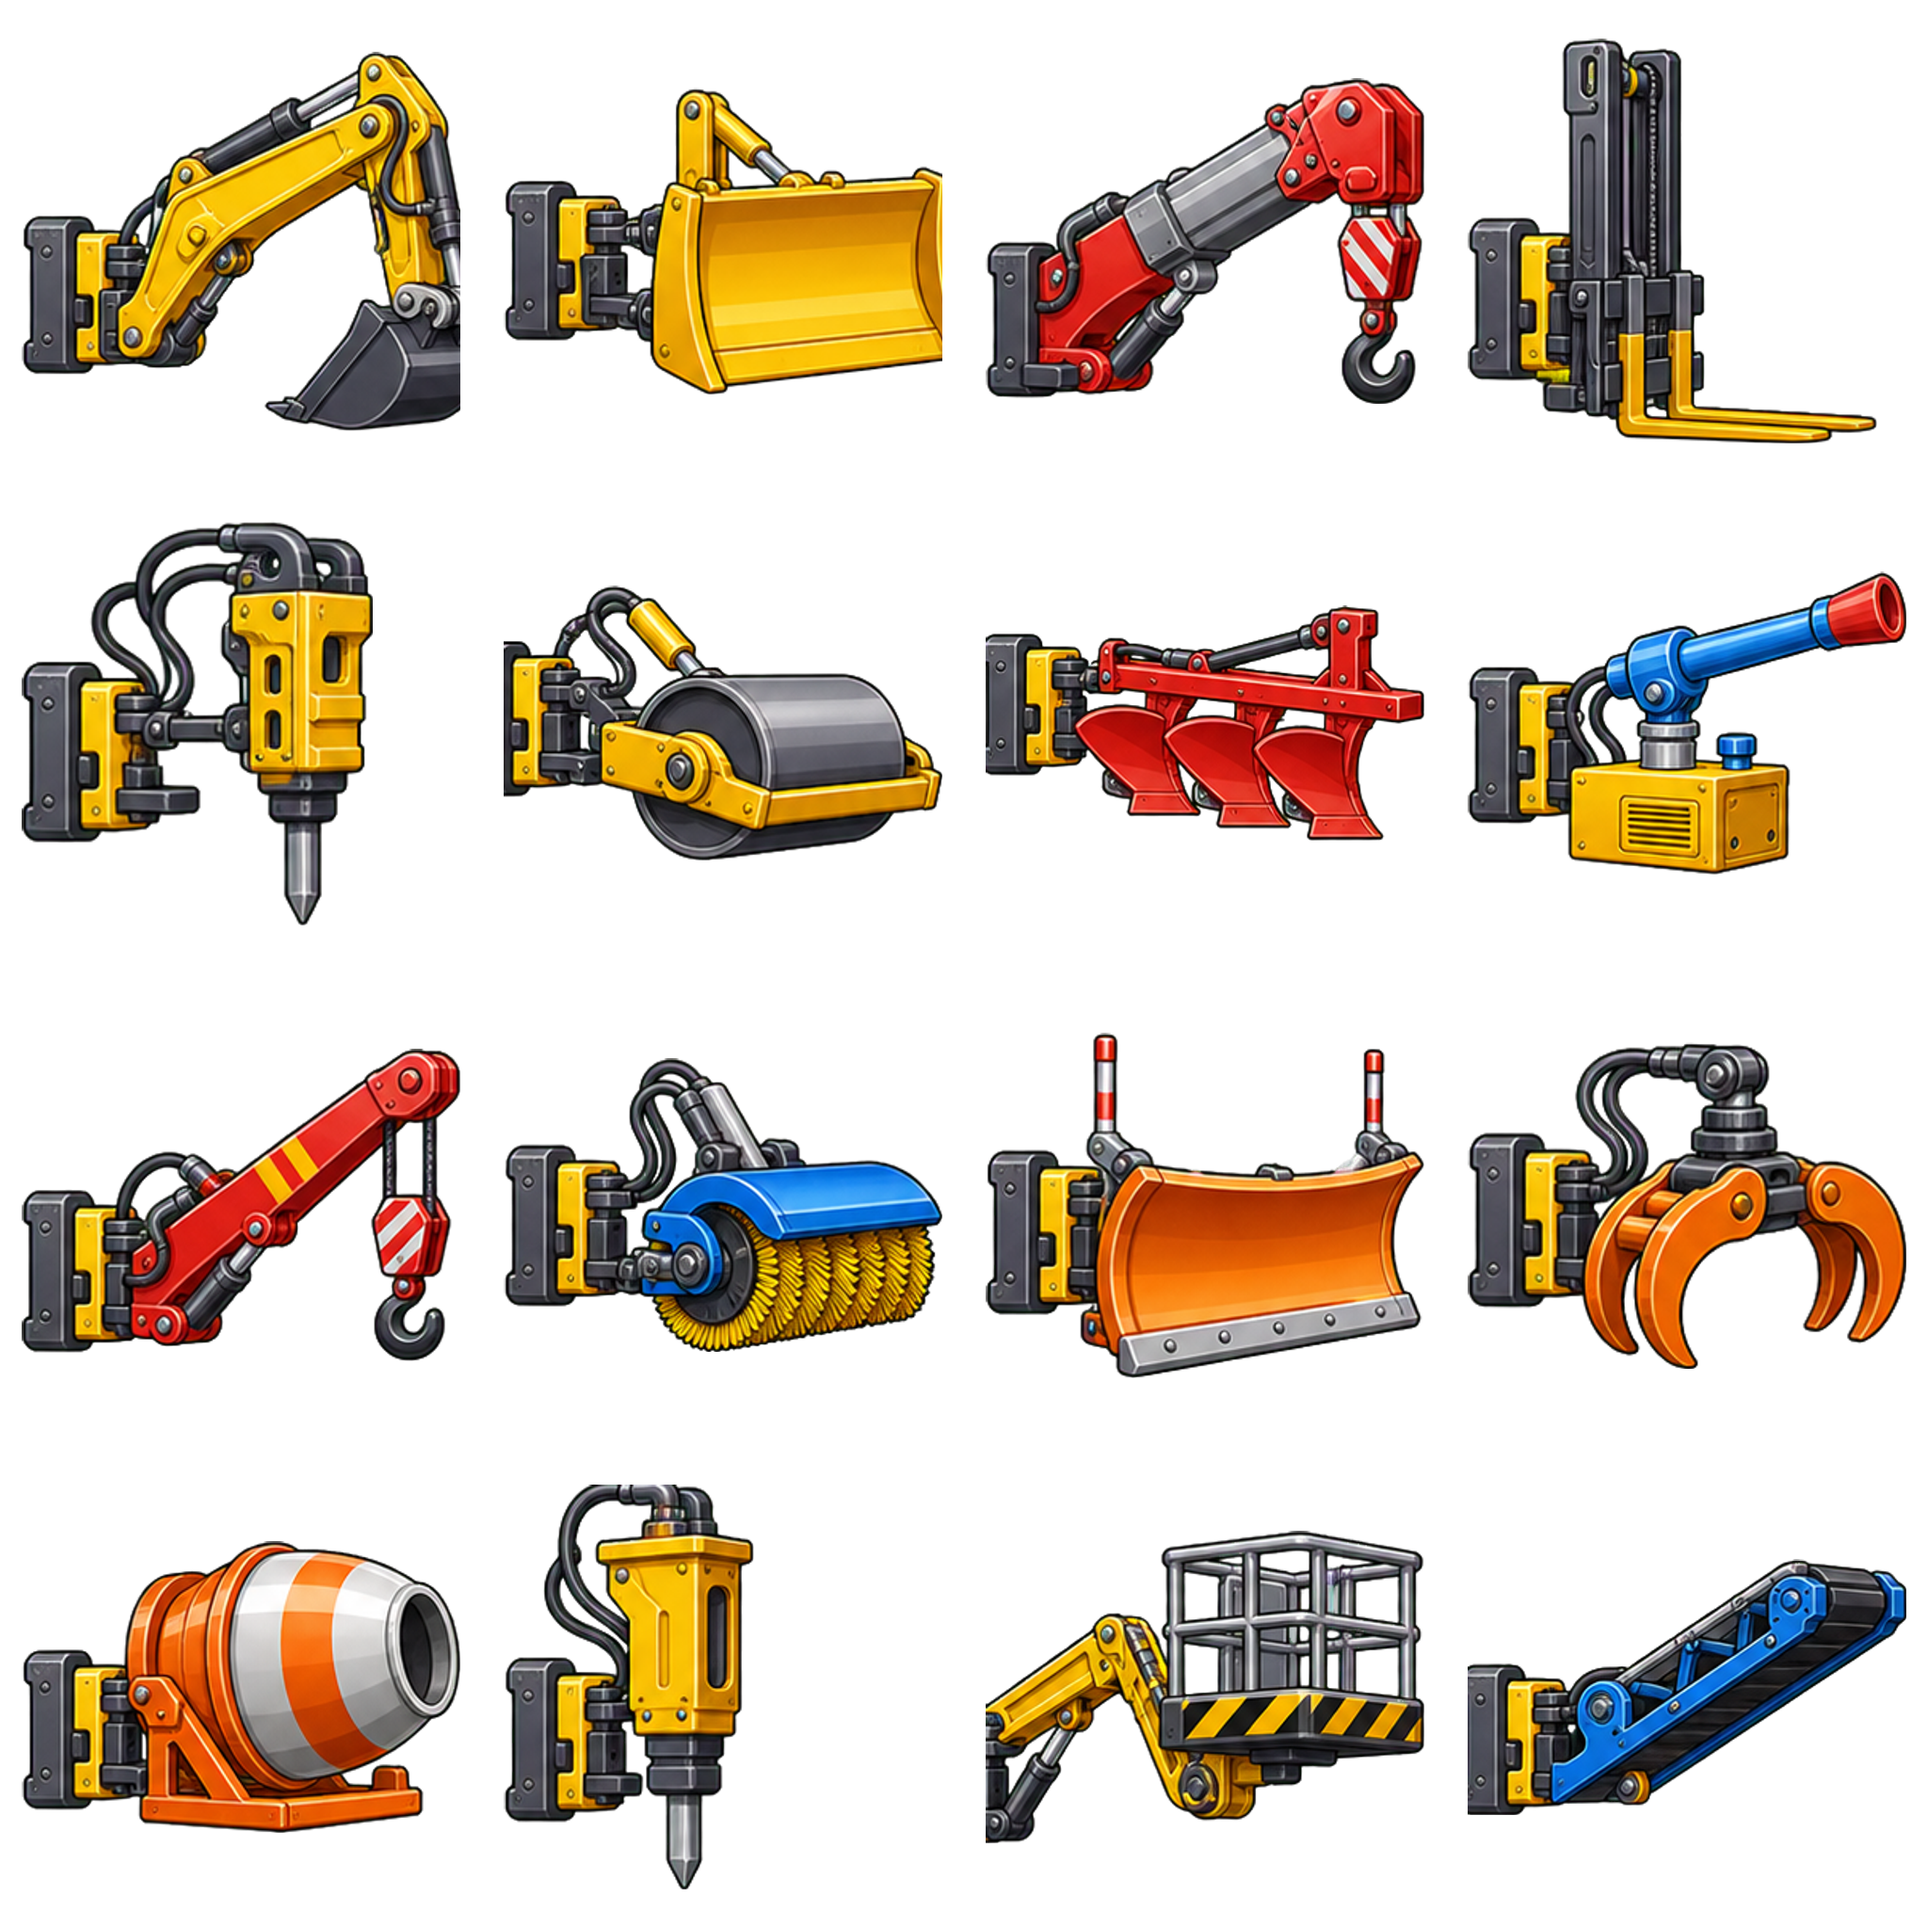
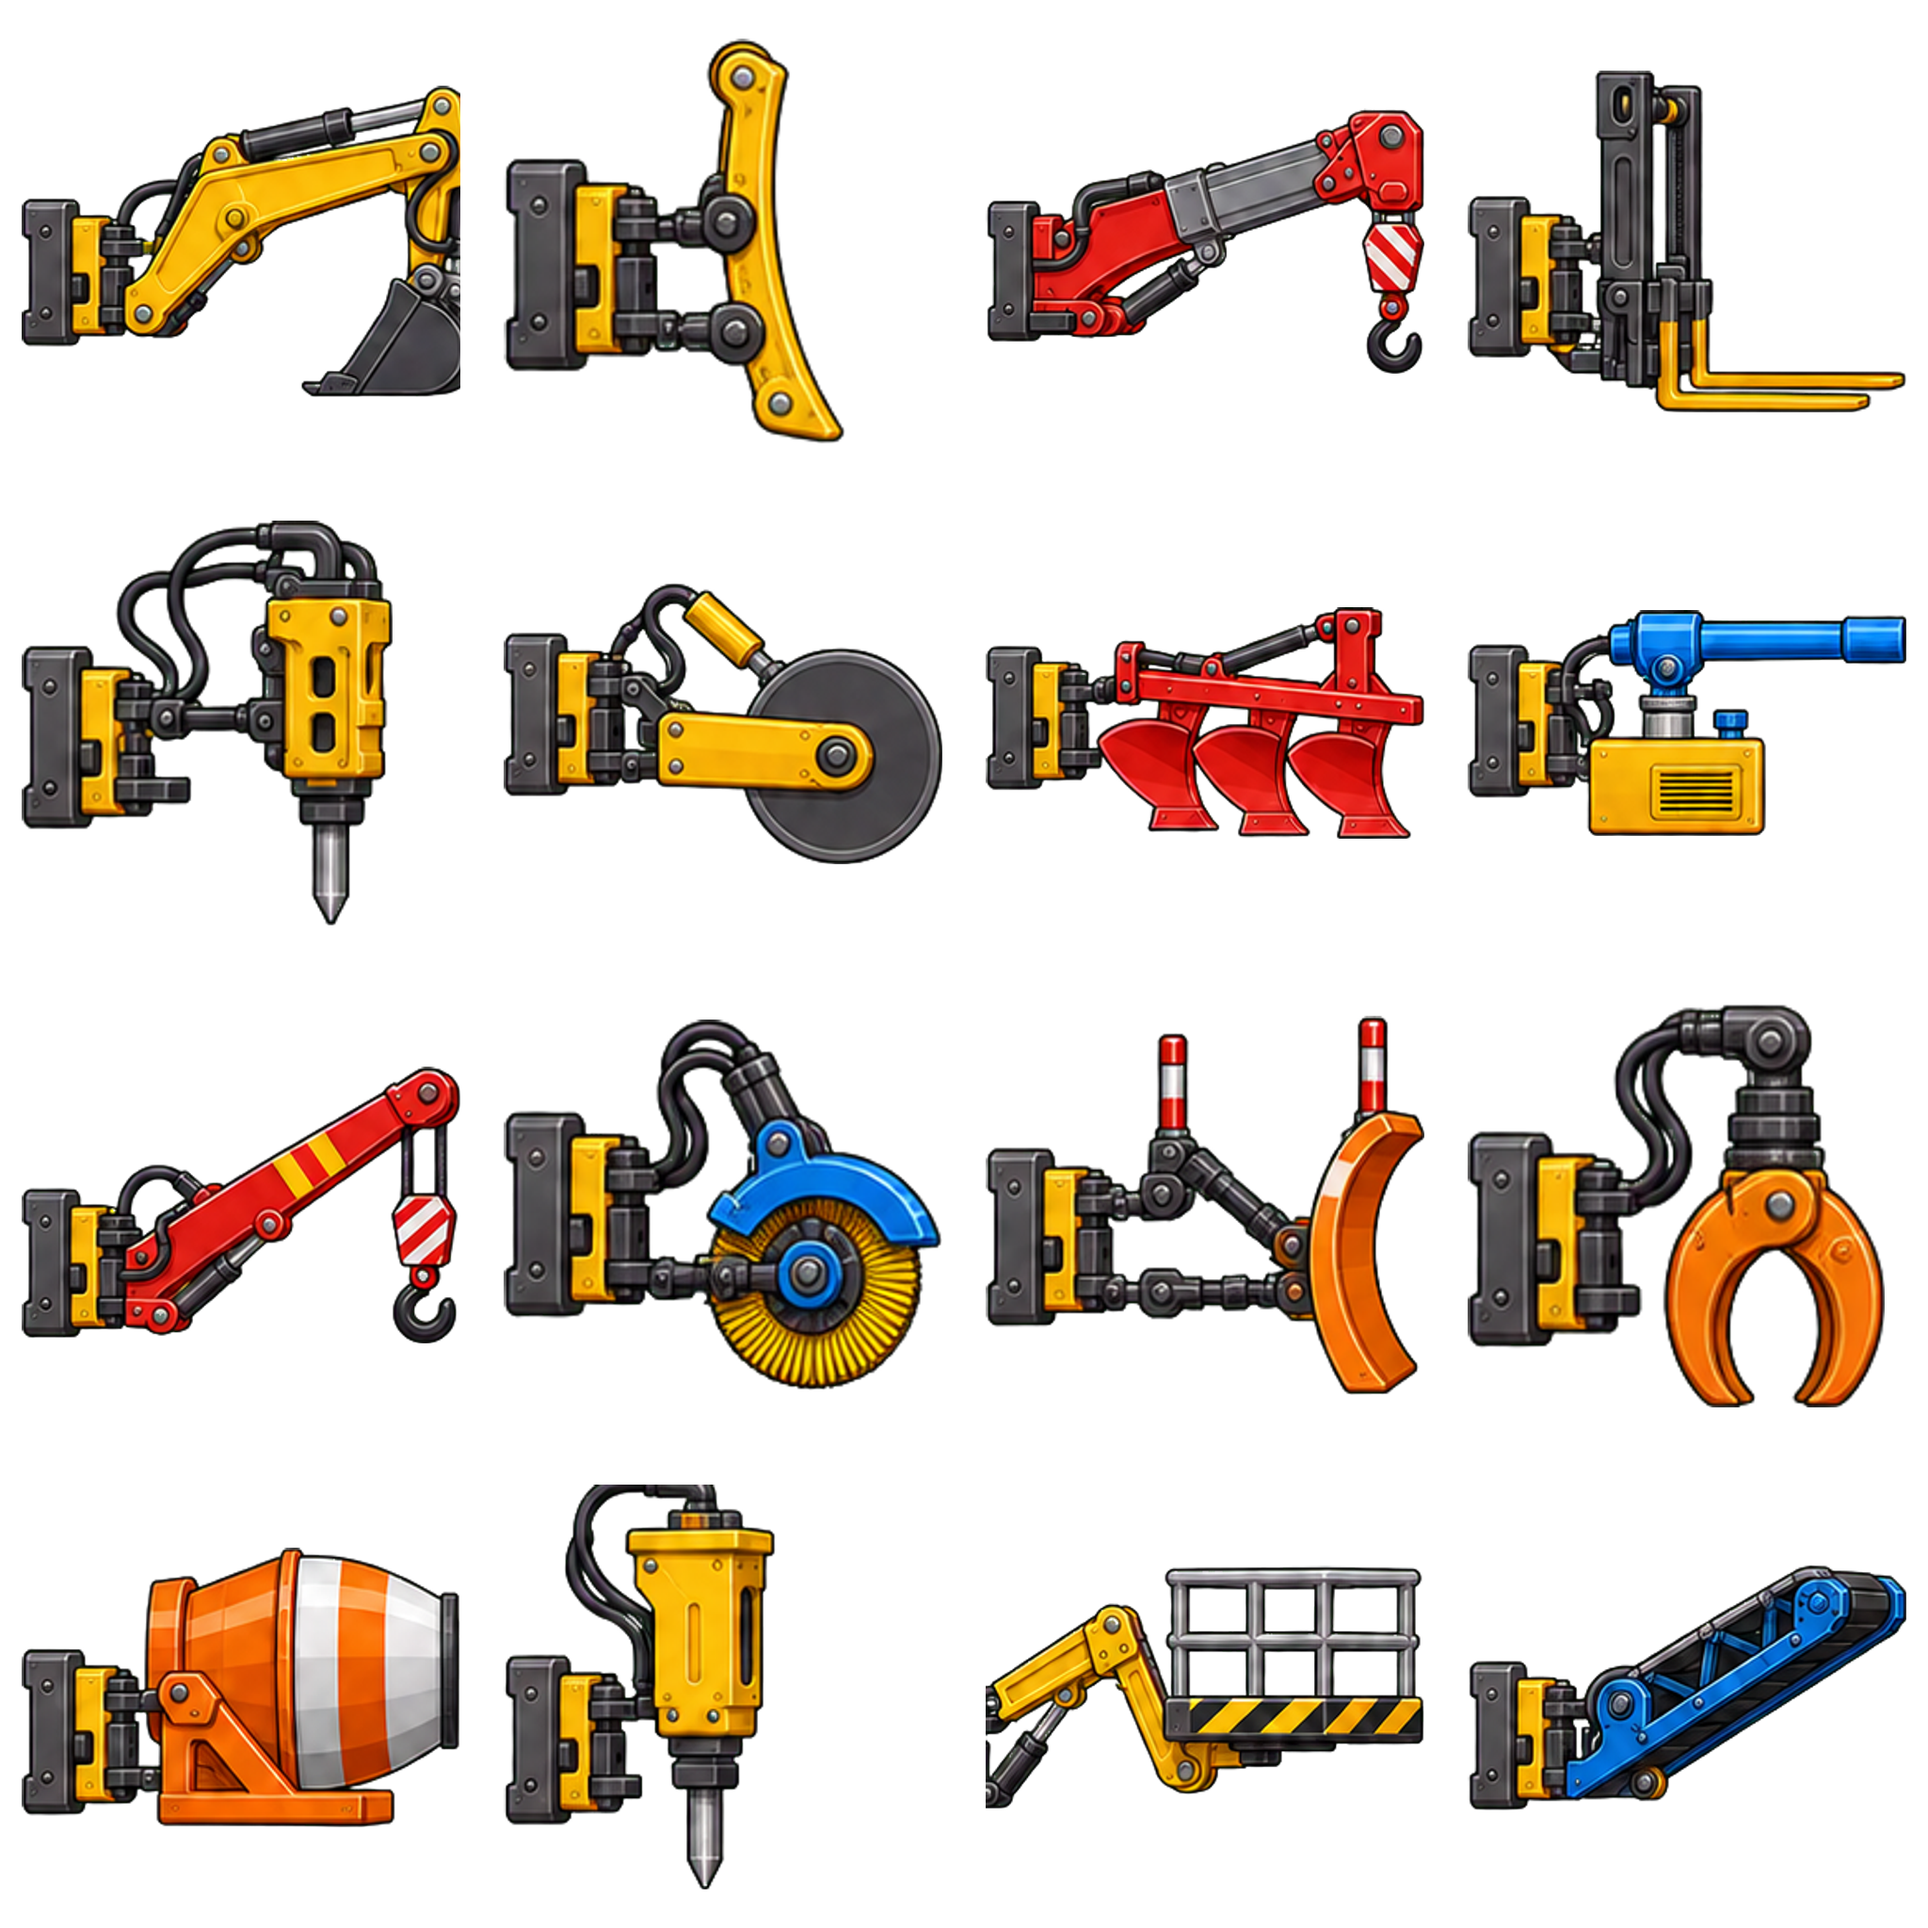
Correct tool sprites to strict side elevation

diff --git a/app/page.tsx b/app/page.tsx
@@ -225,7 +225,7 @@ function spriteStyle(id: string): React.CSSProperties | undefined {
     12: "v5-flat-transport.svg",
   };
   return {
-    backgroundImage: `url(/assets/${sheets[sprite[0]]}?v=9.0)`,
+    backgroundImage: `url(/assets/${sheets[sprite[0]]}?v=9.1)`,
     backgroundPosition: `${col * 33.333}% ${row * 33.333}%`,
   };
 }
